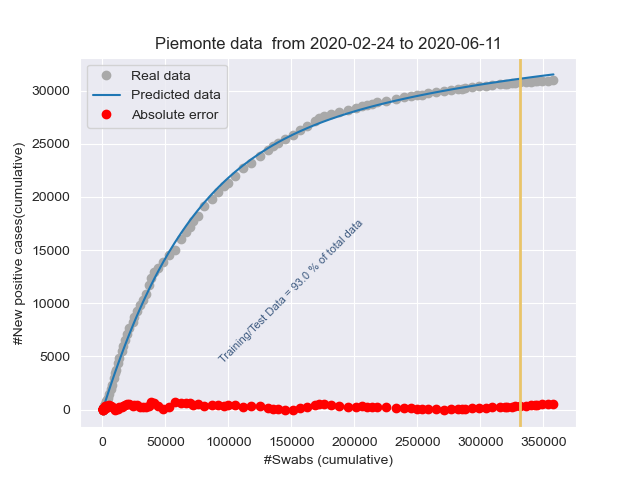
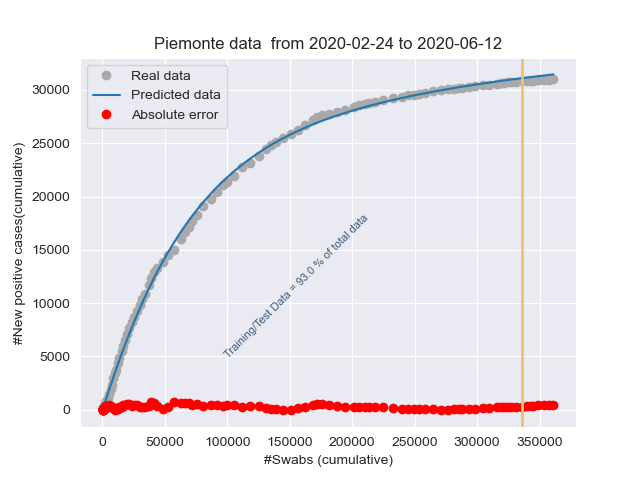
Add files via upload

diff --git a/stat_Friuli Venezia Giulia.html b/stat_Friuli Venezia Giulia.html
@@ -1,1 +1,1 @@
-<!DOCTYPE html><html lang="it"><head><title>Results</title><meta charset="utf-8"><meta name="viewport" content="width=device-width, initial-scale=1"><link rel="stylesheet" href="bootstrap.min.css"><script src="https://ajax.googleapis.com/ajax/libs/jquery/3.4.1/jquery.min.js"></script><script src="https://maxcdn.bootstrapcdn.com/bootstrap/3.4.1/js/bootstrap.min.js"></script></head><body><h3>Day: 2020-06-11</h3><p class="lead my-3">New positive cases: <b>1</b></p><p class="lead my-3">Variation of positive cases: <b>-50.0%</b></p><p class="lead my-3">Number of swabs: <b>897.0</b></p><p class="lead my-3">Variation of swabs: <b>0.59%</b></p><p class="lead my-3">Postive cases/Swabs: <b>0.11 %</b></p><p class="lead my-3">Number of people admitted to Intensive care: <b>0</b></p><p class="lead my-3">Number of recovered people: <b>1.0</b></p><p class="lead my-3">Number of dead people: <b>1.0</b></p><h3>Total</h3><p class="lead my-3">Population of  Friuli Venezia Giulia: <b>1215220</b> <a href="http://dati.istat.it/Index.aspx?QueryId=18548" target="_blank">ISTAT data</a></p><p class="lead my-3">Total number of positive cases from 2020-02-24 00:00:00 to 2020-06-11: <b> 3287</b></p><p class="lead my-3">Total number of swabs from 2020-02-24 00:00:00 to 2020-06-11: <b> 153763</b></p><p class="lead my-3">TotalSwabs/Population: <b> 12.65%</b></p></body></html>
+<!DOCTYPE html><html lang="it"><head><title>Results</title><meta charset="utf-8"><meta name="viewport" content="width=device-width, initial-scale=1"><link rel="stylesheet" href="bootstrap.min.css"><script src="https://ajax.googleapis.com/ajax/libs/jquery/3.4.1/jquery.min.js"></script><script src="https://maxcdn.bootstrapcdn.com/bootstrap/3.4.1/js/bootstrap.min.js"></script></head><body><h3>Day: 2020-06-12</h3><p class="lead my-3">New positive cases: <b>3</b></p><p class="lead my-3">Variation of positive cases: <b>200.0%</b></p><p class="lead my-3">Number of swabs: <b>4146.0</b></p><p class="lead my-3">Variation of swabs: <b>2.7%</b></p><p class="lead my-3">Postive cases/Swabs: <b>0.07 %</b></p><p class="lead my-3">Number of people admitted to Intensive care: <b>0</b></p><p class="lead my-3">Number of recovered people: <b>7.0</b></p><p class="lead my-3">Number of dead people: <b>0.0</b></p><h3>Total</h3><p class="lead my-3">Population of  Friuli Venezia Giulia: <b>1215220</b> <a href="http://dati.istat.it/Index.aspx?QueryId=18548" target="_blank">ISTAT data</a></p><p class="lead my-3">Total number of positive cases from 2020-02-24 00:00:00 to 2020-06-12: <b> 3290</b></p><p class="lead my-3">Total number of swabs from 2020-02-24 00:00:00 to 2020-06-12: <b> 157909</b></p><p class="lead my-3">TotalSwabs/Population: <b> 12.99%</b></p></body></html>

diff --git a/stat_Italy.html b/stat_Italy.html
@@ -1,1 +1,1 @@
-<!DOCTYPE html><html lang="it"><head><title>Results</title><meta charset="utf-8"><meta name="viewport" content="width=device-width, initial-scale=1"><link rel="stylesheet" href="bootstrap.min.css"><script src="https://ajax.googleapis.com/ajax/libs/jquery/3.4.1/jquery.min.js"></script><script src="https://maxcdn.bootstrapcdn.com/bootstrap/3.4.1/js/bootstrap.min.js"></script></head><body><h3>Day: 2020-06-11</h3><p class="lead my-3">New positive cases: <b>379</b></p><p class="lead my-3">Variation of positive cases: <b>87.62%</b></p><p class="lead my-3">Number of swabs: <b>62472.0</b></p><p class="lead my-3">Variation of swabs: <b>1.43%</b></p><p class="lead my-3">Postive cases/Swabs: <b>0.61 %</b></p><p class="lead my-3">Number of people admitted to Intensive care: <b>236</b></p><p class="lead my-3">Number of recovered people: <b>1399.0</b></p><p class="lead my-3">Number of dead people: <b>53.0</b></p><h3>Total</h3><p class="lead my-3">Population of  Italy: <b>60359546</b> <a href="http://dati.istat.it/Index.aspx?QueryId=18548" target="_blank">ISTAT data</a></p><p class="lead my-3">Total number of positive cases from 2020-02-24 00:00:00 to 2020-06-11: <b> 236134</b></p><p class="lead my-3">Total number of swabs from 2020-02-24 00:00:00 to 2020-06-11: <b> 4443821</b></p><p class="lead my-3">TotalSwabs/Population: <b> 7.36%</b></p></body></html>
+<!DOCTYPE html><html lang="it"><head><title>Results</title><meta charset="utf-8"><meta name="viewport" content="width=device-width, initial-scale=1"><link rel="stylesheet" href="bootstrap.min.css"><script src="https://ajax.googleapis.com/ajax/libs/jquery/3.4.1/jquery.min.js"></script><script src="https://maxcdn.bootstrapcdn.com/bootstrap/3.4.1/js/bootstrap.min.js"></script></head><body><h3>Day: 2020-06-12</h3><p class="lead my-3">New positive cases: <b>163</b></p><p class="lead my-3">Variation of positive cases: <b>-56.99%</b></p><p class="lead my-3">Number of swabs: <b>70620.0</b></p><p class="lead my-3">Variation of swabs: <b>1.59%</b></p><p class="lead my-3">Postive cases/Swabs: <b>0.23 %</b></p><p class="lead my-3">Number of people admitted to Intensive care: <b>227</b></p><p class="lead my-3">Number of recovered people: <b>1747.0</b></p><p class="lead my-3">Number of dead people: <b>56.0</b></p><h3>Total</h3><p class="lead my-3">Population of  Italy: <b>60359546</b> <a href="http://dati.istat.it/Index.aspx?QueryId=18548" target="_blank">ISTAT data</a></p><p class="lead my-3">Total number of positive cases from 2020-02-24 00:00:00 to 2020-06-12: <b> 236297</b></p><p class="lead my-3">Total number of swabs from 2020-02-24 00:00:00 to 2020-06-12: <b> 4514441</b></p><p class="lead my-3">TotalSwabs/Population: <b> 7.48%</b></p></body></html>

diff --git a/stat_Lombardia.html b/stat_Lombardia.html
@@ -1,1 +1,1 @@
-<!DOCTYPE html><html lang="it"><head><title>Results</title><meta charset="utf-8"><meta name="viewport" content="width=device-width, initial-scale=1"><link rel="stylesheet" href="bootstrap.min.css"><script src="https://ajax.googleapis.com/ajax/libs/jquery/3.4.1/jquery.min.js"></script><script src="https://maxcdn.bootstrapcdn.com/bootstrap/3.4.1/js/bootstrap.min.js"></script></head><body><h3>Day: 2020-06-11</h3><p class="lead my-3">New positive cases: <b>252</b></p><p class="lead my-3">Variation of positive cases: <b>154.55%</b></p><p class="lead my-3">Number of swabs: <b>13376.0</b></p><p class="lead my-3">Variation of swabs: <b>1.58%</b></p><p class="lead my-3">Postive cases/Swabs: <b>1.88 %</b></p><p class="lead my-3">Number of people admitted to Intensive care: <b>97</b></p><p class="lead my-3">Number of recovered people: <b>744.0</b></p><p class="lead my-3">Number of dead people: <b>25.0</b></p><h3>Total</h3><p class="lead my-3">Population of  Lombardia: <b>10060574</b> <a href="http://dati.istat.it/Index.aspx?QueryId=18548" target="_blank">ISTAT data</a></p><p class="lead my-3">Total number of positive cases from 2020-02-24 00:00:00 to 2020-06-11: <b> 90926</b></p><p class="lead my-3">Total number of swabs from 2020-02-24 00:00:00 to 2020-06-11: <b> 858994</b></p><p class="lead my-3">TotalSwabs/Population: <b> 8.54%</b></p></body></html>
+<!DOCTYPE html><html lang="it"><head><title>Results</title><meta charset="utf-8"><meta name="viewport" content="width=device-width, initial-scale=1"><link rel="stylesheet" href="bootstrap.min.css"><script src="https://ajax.googleapis.com/ajax/libs/jquery/3.4.1/jquery.min.js"></script><script src="https://maxcdn.bootstrapcdn.com/bootstrap/3.4.1/js/bootstrap.min.js"></script></head><body><h3>Day: 2020-06-12</h3><p class="lead my-3">New positive cases: <b>272</b></p><p class="lead my-3">Variation of positive cases: <b>7.94%</b></p><p class="lead my-3">Number of swabs: <b>14837.0</b></p><p class="lead my-3">Variation of swabs: <b>1.73%</b></p><p class="lead my-3">Postive cases/Swabs: <b>1.83 %</b></p><p class="lead my-3">Number of people admitted to Intensive care: <b>97</b></p><p class="lead my-3">Number of recovered people: <b>557.0</b></p><p class="lead my-3">Number of dead people: <b>31.0</b></p><h3>Total</h3><p class="lead my-3">Population of  Lombardia: <b>10060574</b> <a href="http://dati.istat.it/Index.aspx?QueryId=18548" target="_blank">ISTAT data</a></p><p class="lead my-3">Total number of positive cases from 2020-02-24 00:00:00 to 2020-06-12: <b> 91198</b></p><p class="lead my-3">Total number of swabs from 2020-02-24 00:00:00 to 2020-06-12: <b> 873831</b></p><p class="lead my-3">TotalSwabs/Population: <b> 8.69%</b></p></body></html>

diff --git a/stat_Emilia-Romagna.html b/stat_Emilia-Romagna.html
@@ -1,1 +1,1 @@
-<!DOCTYPE html><html lang="it"><head><title>Results</title><meta charset="utf-8"><meta name="viewport" content="width=device-width, initial-scale=1"><link rel="stylesheet" href="bootstrap.min.css"><script src="https://ajax.googleapis.com/ajax/libs/jquery/3.4.1/jquery.min.js"></script><script src="https://maxcdn.bootstrapcdn.com/bootstrap/3.4.1/js/bootstrap.min.js"></script></head><body><h3>Day: 2020-06-11</h3><p class="lead my-3">New positive cases: <b>25</b></p><p class="lead my-3">Variation of positive cases: <b>4.17%</b></p><p class="lead my-3">Number of swabs: <b>9942.0</b></p><p class="lead my-3">Variation of swabs: <b>2.65%</b></p><p class="lead my-3">Postive cases/Swabs: <b>0.25 %</b></p><p class="lead my-3">Number of people admitted to Intensive care: <b>18</b></p><p class="lead my-3">Number of recovered people: <b>86.0</b></p><p class="lead my-3">Number of dead people: <b>0.0</b></p><h3>Total</h3><p class="lead my-3">Population of  Emilia-Romagna: <b>4459477</b> <a href="http://dati.istat.it/Index.aspx?QueryId=18548" target="_blank">ISTAT data</a></p><p class="lead my-3">Total number of positive cases from 2020-02-24 00:00:00 to 2020-06-11: <b> 27995</b></p><p class="lead my-3">Total number of swabs from 2020-02-24 00:00:00 to 2020-06-11: <b> 385220</b></p><p class="lead my-3">TotalSwabs/Population: <b> 8.64%</b></p></body></html>
+<!DOCTYPE html><html lang="it"><head><title>Results</title><meta charset="utf-8"><meta name="viewport" content="width=device-width, initial-scale=1"><link rel="stylesheet" href="bootstrap.min.css"><script src="https://ajax.googleapis.com/ajax/libs/jquery/3.4.1/jquery.min.js"></script><script src="https://maxcdn.bootstrapcdn.com/bootstrap/3.4.1/js/bootstrap.min.js"></script></head><body><h3>Day: 2020-06-12</h3><p class="lead my-3">New positive cases: <b>33</b></p><p class="lead my-3">Variation of positive cases: <b>32.0%</b></p><p class="lead my-3">Number of swabs: <b>8319.0</b></p><p class="lead my-3">Variation of swabs: <b>2.16%</b></p><p class="lead my-3">Postive cases/Swabs: <b>0.4 %</b></p><p class="lead my-3">Number of people admitted to Intensive care: <b>17</b></p><p class="lead my-3">Number of recovered people: <b>212.0</b></p><p class="lead my-3">Number of dead people: <b>4.0</b></p><h3>Total</h3><p class="lead my-3">Population of  Emilia-Romagna: <b>4459477</b> <a href="http://dati.istat.it/Index.aspx?QueryId=18548" target="_blank">ISTAT data</a></p><p class="lead my-3">Total number of positive cases from 2020-02-24 00:00:00 to 2020-06-12: <b> 28028</b></p><p class="lead my-3">Total number of swabs from 2020-02-24 00:00:00 to 2020-06-12: <b> 393539</b></p><p class="lead my-3">TotalSwabs/Population: <b> 8.82%</b></p></body></html>

diff --git a/stat_Piemonte.html b/stat_Piemonte.html
@@ -1,1 +1,1 @@
-<!DOCTYPE html><html lang="it"><head><title>Results</title><meta charset="utf-8"><meta name="viewport" content="width=device-width, initial-scale=1"><link rel="stylesheet" href="bootstrap.min.css"><script src="https://ajax.googleapis.com/ajax/libs/jquery/3.4.1/jquery.min.js"></script><script src="https://maxcdn.bootstrapcdn.com/bootstrap/3.4.1/js/bootstrap.min.js"></script></head><body><h3>Day: 2020-06-11</h3><p class="lead my-3">New positive cases: <b>42</b></p><p class="lead my-3">Variation of positive cases: <b>61.54%</b></p><p class="lead my-3">Number of swabs: <b>4220.0</b></p><p class="lead my-3">Variation of swabs: <b>1.19%</b></p><p class="lead my-3">Postive cases/Swabs: <b>1.0 %</b></p><p class="lead my-3">Number of people admitted to Intensive care: <b>33</b></p><p class="lead my-3">Number of recovered people: <b>219.0</b></p><p class="lead my-3">Number of dead people: <b>12.0</b></p><h3>Total</h3><p class="lead my-3">Population of  Piemonte: <b>4356406</b> <a href="http://dati.istat.it/Index.aspx?QueryId=18548" target="_blank">ISTAT data</a></p><p class="lead my-3">Total number of positive cases from 2020-02-24 00:00:00 to 2020-06-11: <b> 30958</b></p><p class="lead my-3">Total number of swabs from 2020-02-24 00:00:00 to 2020-06-11: <b> 357957</b></p><p class="lead my-3">TotalSwabs/Population: <b> 8.22%</b></p></body></html>
+<!DOCTYPE html><html lang="it"><head><title>Results</title><meta charset="utf-8"><meta name="viewport" content="width=device-width, initial-scale=1"><link rel="stylesheet" href="bootstrap.min.css"><script src="https://ajax.googleapis.com/ajax/libs/jquery/3.4.1/jquery.min.js"></script><script src="https://maxcdn.bootstrapcdn.com/bootstrap/3.4.1/js/bootstrap.min.js"></script></head><body><h3>Day: 2020-06-12</h3><p class="lead my-3">New positive cases: <b>31</b></p><p class="lead my-3">Variation of positive cases: <b>-26.19%</b></p><p class="lead my-3">Number of swabs: <b>3207.0</b></p><p class="lead my-3">Variation of swabs: <b>0.9%</b></p><p class="lead my-3">Postive cases/Swabs: <b>0.97 %</b></p><p class="lead my-3">Number of people admitted to Intensive care: <b>30</b></p><p class="lead my-3">Number of recovered people: <b>309.0</b></p><p class="lead my-3">Number of dead people: <b>8.0</b></p><h3>Total</h3><p class="lead my-3">Population of  Piemonte: <b>4356406</b> <a href="http://dati.istat.it/Index.aspx?QueryId=18548" target="_blank">ISTAT data</a></p><p class="lead my-3">Total number of positive cases from 2020-02-24 00:00:00 to 2020-06-12: <b> 30989</b></p><p class="lead my-3">Total number of swabs from 2020-02-24 00:00:00 to 2020-06-12: <b> 361164</b></p><p class="lead my-3">TotalSwabs/Population: <b> 8.29%</b></p></body></html>

diff --git a/stat_Campania.html b/stat_Campania.html
@@ -1,1 +1,1 @@
-<!DOCTYPE html><html lang="it"><head><title>Results</title><meta charset="utf-8"><meta name="viewport" content="width=device-width, initial-scale=1"><link rel="stylesheet" href="bootstrap.min.css"><script src="https://ajax.googleapis.com/ajax/libs/jquery/3.4.1/jquery.min.js"></script><script src="https://maxcdn.bootstrapcdn.com/bootstrap/3.4.1/js/bootstrap.min.js"></script></head><body><h3>Day: 2020-06-11</h3><p class="lead my-3">New positive cases: <b>3</b></p><p class="lead my-3">Variation of positive cases: <b>200.0%</b></p><p class="lead my-3">Number of swabs: <b>3521.0</b></p><p class="lead my-3">Variation of swabs: <b>1.58%</b></p><p class="lead my-3">Postive cases/Swabs: <b>0.09 %</b></p><p class="lead my-3">Number of people admitted to Intensive care: <b>2</b></p><p class="lead my-3">Number of recovered people: <b>33.0</b></p><p class="lead my-3">Number of dead people: <b>2.0</b></p><h3>Total</h3><p class="lead my-3">Population of  Campania: <b>5801692</b> <a href="http://dati.istat.it/Index.aspx?QueryId=18548" target="_blank">ISTAT data</a></p><p class="lead my-3">Total number of positive cases from 2020-02-24 00:00:00 to 2020-06-11: <b> 4837</b></p><p class="lead my-3">Total number of swabs from 2020-02-24 00:00:00 to 2020-06-11: <b> 226823</b></p><p class="lead my-3">TotalSwabs/Population: <b> 3.91%</b></p></body></html>
+<!DOCTYPE html><html lang="it"><head><title>Results</title><meta charset="utf-8"><meta name="viewport" content="width=device-width, initial-scale=1"><link rel="stylesheet" href="bootstrap.min.css"><script src="https://ajax.googleapis.com/ajax/libs/jquery/3.4.1/jquery.min.js"></script><script src="https://maxcdn.bootstrapcdn.com/bootstrap/3.4.1/js/bootstrap.min.js"></script></head><body><h3>Day: 2020-06-12</h3><p class="lead my-3">New positive cases: <b>-229</b></p><p class="lead my-3">Variation of positive cases: <b>-7733.33%</b></p><p class="lead my-3">Number of swabs: <b>3728.0</b></p><p class="lead my-3">Variation of swabs: <b>1.64%</b></p><p class="lead my-3">Postive cases/Swabs: <b>-6.14 %</b></p><p class="lead my-3">Number of people admitted to Intensive care: <b>2</b></p><p class="lead my-3">Number of recovered people: <b>35.0</b></p><p class="lead my-3">Number of dead people: <b>0.0</b></p><h3>Total</h3><p class="lead my-3">Population of  Campania: <b>5801692</b> <a href="http://dati.istat.it/Index.aspx?QueryId=18548" target="_blank">ISTAT data</a></p><p class="lead my-3">Total number of positive cases from 2020-02-24 00:00:00 to 2020-06-12: <b> 4608</b></p><p class="lead my-3">Total number of swabs from 2020-02-24 00:00:00 to 2020-06-12: <b> 230551</b></p><p class="lead my-3">TotalSwabs/Population: <b> 3.97%</b></p></body></html>

diff --git a/stat_Toscana.html b/stat_Toscana.html
@@ -1,1 +1,1 @@
-<!DOCTYPE html><html lang="it"><head><title>Results</title><meta charset="utf-8"><meta name="viewport" content="width=device-width, initial-scale=1"><link rel="stylesheet" href="bootstrap.min.css"><script src="https://ajax.googleapis.com/ajax/libs/jquery/3.4.1/jquery.min.js"></script><script src="https://maxcdn.bootstrapcdn.com/bootstrap/3.4.1/js/bootstrap.min.js"></script></head><body><h3>Day: 2020-06-11</h3><p class="lead my-3">New positive cases: <b>10</b></p><p class="lead my-3">Variation of positive cases: <b>233.33%</b></p><p class="lead my-3">Number of swabs: <b>3147.0</b></p><p class="lead my-3">Variation of swabs: <b>1.12%</b></p><p class="lead my-3">Postive cases/Swabs: <b>0.32 %</b></p><p class="lead my-3">Number of people admitted to Intensive care: <b>15</b></p><p class="lead my-3">Number of recovered people: <b>27.0</b></p><p class="lead my-3">Number of dead people: <b>1.0</b></p><h3>Total</h3><p class="lead my-3">Population of  Toscana: <b>3729641</b> <a href="http://dati.istat.it/Index.aspx?QueryId=18548" target="_blank">ISTAT data</a></p><p class="lead my-3">Total number of positive cases from 2020-02-24 00:00:00 to 2020-06-11: <b> 10158</b></p><p class="lead my-3">Total number of swabs from 2020-02-24 00:00:00 to 2020-06-11: <b> 283638</b></p><p class="lead my-3">TotalSwabs/Population: <b> 7.6%</b></p></body></html>
+<!DOCTYPE html><html lang="it"><head><title>Results</title><meta charset="utf-8"><meta name="viewport" content="width=device-width, initial-scale=1"><link rel="stylesheet" href="bootstrap.min.css"><script src="https://ajax.googleapis.com/ajax/libs/jquery/3.4.1/jquery.min.js"></script><script src="https://maxcdn.bootstrapcdn.com/bootstrap/3.4.1/js/bootstrap.min.js"></script></head><body><h3>Day: 2020-06-12</h3><p class="lead my-3">New positive cases: <b>7</b></p><p class="lead my-3">Variation of positive cases: <b>-30.0%</b></p><p class="lead my-3">Number of swabs: <b>3055.0</b></p><p class="lead my-3">Variation of swabs: <b>1.08%</b></p><p class="lead my-3">Postive cases/Swabs: <b>0.23 %</b></p><p class="lead my-3">Number of people admitted to Intensive care: <b>14</b></p><p class="lead my-3">Number of recovered people: <b>17.0</b></p><p class="lead my-3">Number of dead people: <b>1.0</b></p><h3>Total</h3><p class="lead my-3">Population of  Toscana: <b>3729641</b> <a href="http://dati.istat.it/Index.aspx?QueryId=18548" target="_blank">ISTAT data</a></p><p class="lead my-3">Total number of positive cases from 2020-02-24 00:00:00 to 2020-06-12: <b> 10165</b></p><p class="lead my-3">Total number of swabs from 2020-02-24 00:00:00 to 2020-06-12: <b> 286693</b></p><p class="lead my-3">TotalSwabs/Population: <b> 7.69%</b></p></body></html>

diff --git a/stat_P.A. Bolzano.html b/stat_P.A. Bolzano.html
@@ -1,1 +1,1 @@
-<!DOCTYPE html><html lang="it"><head><title>Results</title><meta charset="utf-8"><meta name="viewport" content="width=device-width, initial-scale=1"><link rel="stylesheet" href="bootstrap.min.css"><script src="https://ajax.googleapis.com/ajax/libs/jquery/3.4.1/jquery.min.js"></script><script src="https://maxcdn.bootstrapcdn.com/bootstrap/3.4.1/js/bootstrap.min.js"></script></head><body><h3>Day: 2020-06-11</h3><p class="lead my-3">New positive cases: <b>2</b></p><p class="lead my-3">Variation of positive cases: <b>inf%</b></p><p class="lead my-3">Number of swabs: <b>702.0</b></p><p class="lead my-3">Variation of swabs: <b>0.96%</b></p><p class="lead my-3">Postive cases/Swabs: <b>0.28 %</b></p><p class="lead my-3">Number of people admitted to Intensive care: <b>2</b></p><p class="lead my-3">Number of recovered people: <b>-3.0</b></p><p class="lead my-3">Number of dead people: <b>0.0</b></p><h3>Total</h3><p class="lead my-3">Population of  P.A. Bolzano: <b>531178</b> <a href="http://dati.istat.it/Index.aspx?QueryId=18548" target="_blank">ISTAT data</a></p><p class="lead my-3">Total number of positive cases from 2020-02-24 00:00:00 to 2020-06-11: <b> 2606</b></p><p class="lead my-3">Total number of swabs from 2020-02-24 00:00:00 to 2020-06-11: <b> 74106</b></p><p class="lead my-3">TotalSwabs/Population: <b> 13.95%</b></p></body></html>
+<!DOCTYPE html><html lang="it"><head><title>Results</title><meta charset="utf-8"><meta name="viewport" content="width=device-width, initial-scale=1"><link rel="stylesheet" href="bootstrap.min.css"><script src="https://ajax.googleapis.com/ajax/libs/jquery/3.4.1/jquery.min.js"></script><script src="https://maxcdn.bootstrapcdn.com/bootstrap/3.4.1/js/bootstrap.min.js"></script></head><body><h3>Day: 2020-06-12</h3><p class="lead my-3">New positive cases: <b>2</b></p><p class="lead my-3">Variation of positive cases: <b>0.0%</b></p><p class="lead my-3">Number of swabs: <b>753.0</b></p><p class="lead my-3">Variation of swabs: <b>1.02%</b></p><p class="lead my-3">Postive cases/Swabs: <b>0.27 %</b></p><p class="lead my-3">Number of people admitted to Intensive care: <b>2</b></p><p class="lead my-3">Number of recovered people: <b>1.0</b></p><p class="lead my-3">Number of dead people: <b>-1.0</b></p><h3>Total</h3><p class="lead my-3">Population of  P.A. Bolzano: <b>531178</b> <a href="http://dati.istat.it/Index.aspx?QueryId=18548" target="_blank">ISTAT data</a></p><p class="lead my-3">Total number of positive cases from 2020-02-24 00:00:00 to 2020-06-12: <b> 2608</b></p><p class="lead my-3">Total number of swabs from 2020-02-24 00:00:00 to 2020-06-12: <b> 74859</b></p><p class="lead my-3">TotalSwabs/Population: <b> 14.09%</b></p></body></html>

diff --git a/stat_P.A. Trento.html b/stat_P.A. Trento.html
@@ -1,1 +1,1 @@
-<!DOCTYPE html><html lang="it"><head><title>Results</title><meta charset="utf-8"><meta name="viewport" content="width=device-width, initial-scale=1"><link rel="stylesheet" href="bootstrap.min.css"><script src="https://ajax.googleapis.com/ajax/libs/jquery/3.4.1/jquery.min.js"></script><script src="https://maxcdn.bootstrapcdn.com/bootstrap/3.4.1/js/bootstrap.min.js"></script></head><body><h3>Day: 2020-06-11</h3><p class="lead my-3">New positive cases: <b>2</b></p><p class="lead my-3">Variation of positive cases: <b>inf%</b></p><p class="lead my-3">Number of swabs: <b>1230.0</b></p><p class="lead my-3">Variation of swabs: <b>1.26%</b></p><p class="lead my-3">Postive cases/Swabs: <b>0.16 %</b></p><p class="lead my-3">Number of people admitted to Intensive care: <b>1</b></p><p class="lead my-3">Number of recovered people: <b>11.0</b></p><p class="lead my-3">Number of dead people: <b>0.0</b></p><h3>Total</h3><p class="lead my-3">Population of  P.A. Trento: <b>541098</b> <a href="http://dati.istat.it/Index.aspx?QueryId=18548" target="_blank">ISTAT data</a></p><p class="lead my-3">Total number of positive cases from 2020-02-24 00:00:00 to 2020-06-11: <b> 4441</b></p><p class="lead my-3">Total number of swabs from 2020-02-24 00:00:00 to 2020-06-11: <b> 98969</b></p><p class="lead my-3">TotalSwabs/Population: <b> 18.29%</b></p></body></html>
+<!DOCTYPE html><html lang="it"><head><title>Results</title><meta charset="utf-8"><meta name="viewport" content="width=device-width, initial-scale=1"><link rel="stylesheet" href="bootstrap.min.css"><script src="https://ajax.googleapis.com/ajax/libs/jquery/3.4.1/jquery.min.js"></script><script src="https://maxcdn.bootstrapcdn.com/bootstrap/3.4.1/js/bootstrap.min.js"></script></head><body><h3>Day: 2020-06-12</h3><p class="lead my-3">New positive cases: <b>2</b></p><p class="lead my-3">Variation of positive cases: <b>0.0%</b></p><p class="lead my-3">Number of swabs: <b>1431.0</b></p><p class="lead my-3">Variation of swabs: <b>1.45%</b></p><p class="lead my-3">Postive cases/Swabs: <b>0.14 %</b></p><p class="lead my-3">Number of people admitted to Intensive care: <b>1</b></p><p class="lead my-3">Number of recovered people: <b>5.0</b></p><p class="lead my-3">Number of dead people: <b>0.0</b></p><h3>Total</h3><p class="lead my-3">Population of  P.A. Trento: <b>541098</b> <a href="http://dati.istat.it/Index.aspx?QueryId=18548" target="_blank">ISTAT data</a></p><p class="lead my-3">Total number of positive cases from 2020-02-24 00:00:00 to 2020-06-12: <b> 4443</b></p><p class="lead my-3">Total number of swabs from 2020-02-24 00:00:00 to 2020-06-12: <b> 100400</b></p><p class="lead my-3">TotalSwabs/Population: <b> 18.55%</b></p></body></html>

diff --git a/stat_Veneto.html b/stat_Veneto.html
@@ -1,1 +1,1 @@
-<!DOCTYPE html><html lang="it"><head><title>Results</title><meta charset="utf-8"><meta name="viewport" content="width=device-width, initial-scale=1"><link rel="stylesheet" href="bootstrap.min.css"><script src="https://ajax.googleapis.com/ajax/libs/jquery/3.4.1/jquery.min.js"></script><script src="https://maxcdn.bootstrapcdn.com/bootstrap/3.4.1/js/bootstrap.min.js"></script></head><body><h3>Day: 2020-06-11</h3><p class="lead my-3">New positive cases: <b>5</b></p><p class="lead my-3">Variation of positive cases: <b>66.67%</b></p><p class="lead my-3">Number of swabs: <b>7129.0</b></p><p class="lead my-3">Variation of swabs: <b>0.92%</b></p><p class="lead my-3">Postive cases/Swabs: <b>0.07 %</b></p><p class="lead my-3">Number of people admitted to Intensive care: <b>0</b></p><p class="lead my-3">Number of recovered people: <b>45.0</b></p><p class="lead my-3">Number of dead people: <b>3.0</b></p><h3>Total</h3><p class="lead my-3">Population of  Veneto: <b>4905854</b> <a href="http://dati.istat.it/Index.aspx?QueryId=18548" target="_blank">ISTAT data</a></p><p class="lead my-3">Total number of positive cases from 2020-02-24 00:00:00 to 2020-06-11: <b> 19198</b></p><p class="lead my-3">Total number of swabs from 2020-02-24 00:00:00 to 2020-06-11: <b> 780445</b></p><p class="lead my-3">TotalSwabs/Population: <b> 15.91%</b></p></body></html>
+<!DOCTYPE html><html lang="it"><head><title>Results</title><meta charset="utf-8"><meta name="viewport" content="width=device-width, initial-scale=1"><link rel="stylesheet" href="bootstrap.min.css"><script src="https://ajax.googleapis.com/ajax/libs/jquery/3.4.1/jquery.min.js"></script><script src="https://maxcdn.bootstrapcdn.com/bootstrap/3.4.1/js/bootstrap.min.js"></script></head><body><h3>Day: 2020-06-12</h3><p class="lead my-3">New positive cases: <b>0</b></p><p class="lead my-3">Variation of positive cases: <b>-100.0%</b></p><p class="lead my-3">Number of swabs: <b>14815.0</b></p><p class="lead my-3">Variation of swabs: <b>1.9%</b></p><p class="lead my-3">Postive cases/Swabs: <b>0.0 %</b></p><p class="lead my-3">Number of people admitted to Intensive care: <b>0</b></p><p class="lead my-3">Number of recovered people: <b>70.0</b></p><p class="lead my-3">Number of dead people: <b>3.0</b></p><h3>Total</h3><p class="lead my-3">Population of  Veneto: <b>4905854</b> <a href="http://dati.istat.it/Index.aspx?QueryId=18548" target="_blank">ISTAT data</a></p><p class="lead my-3">Total number of positive cases from 2020-02-24 00:00:00 to 2020-06-12: <b> 19198</b></p><p class="lead my-3">Total number of swabs from 2020-02-24 00:00:00 to 2020-06-12: <b> 795260</b></p><p class="lead my-3">TotalSwabs/Population: <b> 16.21%</b></p></body></html>

diff --git a/stat_Liguria.html b/stat_Liguria.html
@@ -1,1 +1,1 @@
-<!DOCTYPE html><html lang="it"><head><title>Results</title><meta charset="utf-8"><meta name="viewport" content="width=device-width, initial-scale=1"><link rel="stylesheet" href="bootstrap.min.css"><script src="https://ajax.googleapis.com/ajax/libs/jquery/3.4.1/jquery.min.js"></script><script src="https://maxcdn.bootstrapcdn.com/bootstrap/3.4.1/js/bootstrap.min.js"></script></head><body><h3>Day: 2020-06-11</h3><p class="lead my-3">New positive cases: <b>10</b></p><p class="lead my-3">Variation of positive cases: <b>-50.0%</b></p><p class="lead my-3">Number of swabs: <b>1631.0</b></p><p class="lead my-3">Variation of swabs: <b>1.35%</b></p><p class="lead my-3">Postive cases/Swabs: <b>0.61 %</b></p><p class="lead my-3">Number of people admitted to Intensive care: <b>3</b></p><p class="lead my-3">Number of recovered people: <b>4.0</b></p><p class="lead my-3">Number of dead people: <b>1.0</b></p><h3>Total</h3><p class="lead my-3">Population of  Liguria: <b>1550640</b> <a href="http://dati.istat.it/Index.aspx?QueryId=18548" target="_blank">ISTAT data</a></p><p class="lead my-3">Total number of positive cases from 2020-02-24 00:00:00 to 2020-06-11: <b> 9864</b></p><p class="lead my-3">Total number of swabs from 2020-02-24 00:00:00 to 2020-06-11: <b> 122654</b></p><p class="lead my-3">TotalSwabs/Population: <b> 7.91%</b></p></body></html>
+<!DOCTYPE html><html lang="it"><head><title>Results</title><meta charset="utf-8"><meta name="viewport" content="width=device-width, initial-scale=1"><link rel="stylesheet" href="bootstrap.min.css"><script src="https://ajax.googleapis.com/ajax/libs/jquery/3.4.1/jquery.min.js"></script><script src="https://maxcdn.bootstrapcdn.com/bootstrap/3.4.1/js/bootstrap.min.js"></script></head><body><h3>Day: 2020-06-12</h3><p class="lead my-3">New positive cases: <b>7</b></p><p class="lead my-3">Variation of positive cases: <b>-30.0%</b></p><p class="lead my-3">Number of swabs: <b>1666.0</b></p><p class="lead my-3">Variation of swabs: <b>1.36%</b></p><p class="lead my-3">Postive cases/Swabs: <b>0.42 %</b></p><p class="lead my-3">Number of people admitted to Intensive care: <b>3</b></p><p class="lead my-3">Number of recovered people: <b>6.0</b></p><p class="lead my-3">Number of dead people: <b>2.0</b></p><h3>Total</h3><p class="lead my-3">Population of  Liguria: <b>1550640</b> <a href="http://dati.istat.it/Index.aspx?QueryId=18548" target="_blank">ISTAT data</a></p><p class="lead my-3">Total number of positive cases from 2020-02-24 00:00:00 to 2020-06-12: <b> 9871</b></p><p class="lead my-3">Total number of swabs from 2020-02-24 00:00:00 to 2020-06-12: <b> 124320</b></p><p class="lead my-3">TotalSwabs/Population: <b> 8.02%</b></p></body></html>

diff --git a/stat_Lazio.html b/stat_Lazio.html
@@ -1,1 +1,1 @@
-<!DOCTYPE html><html lang="it"><head><title>Results</title><meta charset="utf-8"><meta name="viewport" content="width=device-width, initial-scale=1"><link rel="stylesheet" href="bootstrap.min.css"><script src="https://ajax.googleapis.com/ajax/libs/jquery/3.4.1/jquery.min.js"></script><script src="https://maxcdn.bootstrapcdn.com/bootstrap/3.4.1/js/bootstrap.min.js"></script></head><body><h3>Day: 2020-06-11</h3><p class="lead my-3">New positive cases: <b>20</b></p><p class="lead my-3">Variation of positive cases: <b>11.11%</b></p><p class="lead my-3">Number of swabs: <b>4258.0</b></p><p class="lead my-3">Variation of swabs: <b>1.5%</b></p><p class="lead my-3">Postive cases/Swabs: <b>0.47 %</b></p><p class="lead my-3">Number of people admitted to Intensive care: <b>46</b></p><p class="lead my-3">Number of recovered people: <b>63.0</b></p><p class="lead my-3">Number of dead people: <b>6.0</b></p><h3>Total</h3><p class="lead my-3">Population of  Lazio: <b>5879082</b> <a href="http://dati.istat.it/Index.aspx?QueryId=18548" target="_blank">ISTAT data</a></p><p class="lead my-3">Total number of positive cases from 2020-02-24 00:00:00 to 2020-06-11: <b> 7888</b></p><p class="lead my-3">Total number of swabs from 2020-02-24 00:00:00 to 2020-06-11: <b> 287888</b></p><p class="lead my-3">TotalSwabs/Population: <b> 4.9%</b></p></body></html>
+<!DOCTYPE html><html lang="it"><head><title>Results</title><meta charset="utf-8"><meta name="viewport" content="width=device-width, initial-scale=1"><link rel="stylesheet" href="bootstrap.min.css"><script src="https://ajax.googleapis.com/ajax/libs/jquery/3.4.1/jquery.min.js"></script><script src="https://maxcdn.bootstrapcdn.com/bootstrap/3.4.1/js/bootstrap.min.js"></script></head><body><h3>Day: 2020-06-12</h3><p class="lead my-3">New positive cases: <b>27</b></p><p class="lead my-3">Variation of positive cases: <b>35.0%</b></p><p class="lead my-3">Number of swabs: <b>3981.0</b></p><p class="lead my-3">Variation of swabs: <b>1.38%</b></p><p class="lead my-3">Postive cases/Swabs: <b>0.68 %</b></p><p class="lead my-3">Number of people admitted to Intensive care: <b>47</b></p><p class="lead my-3">Number of recovered people: <b>317.0</b></p><p class="lead my-3">Number of dead people: <b>5.0</b></p><h3>Total</h3><p class="lead my-3">Population of  Lazio: <b>5879082</b> <a href="http://dati.istat.it/Index.aspx?QueryId=18548" target="_blank">ISTAT data</a></p><p class="lead my-3">Total number of positive cases from 2020-02-24 00:00:00 to 2020-06-12: <b> 7915</b></p><p class="lead my-3">Total number of swabs from 2020-02-24 00:00:00 to 2020-06-12: <b> 291869</b></p><p class="lead my-3">TotalSwabs/Population: <b> 4.96%</b></p></body></html>
